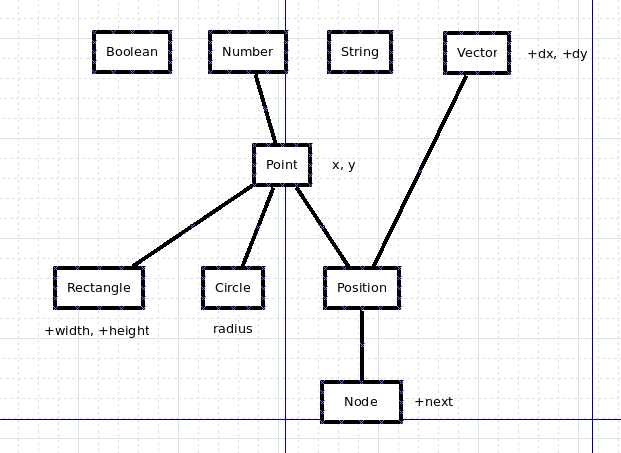
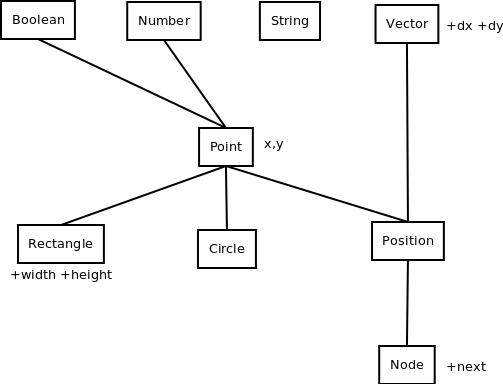
Apró változtatások, képekben, illetve a szövegben is

diff --git a/chapters/engine.tex b/chapters/engine.tex
@@ -30,11 +30,9 @@ Az XML és JSON nyelvek egyaránt alkalmasak a térkép, és a rajta lévő enti
 Az adatbázis motor és a Driver között a kommunikáció (\textit{az adatok tárolási módjához hasonlóan szintén}) JSON alapú. Ez lehetővé teszi, hogy a Driver és az adatbázismotor más nyelven legyen implementálva. Számítógépes játékokat implementálhatnak például C, C++, C\#, Java nyelveken, és ahhoz, hogy mindegyikkel kompatibilis legyen az adatbázismotor, ahhoz rosszabb esetben arra lenne szükség, hogy a motort minden nyelven implementáljuk. Ez nagyon fejlesztést tenne szükségessé, ehelyett csak egy drivert kell implementálni ezen nyelvekhez, amely kommunikál az adatbázis motorral. A projektre nézve a későbbiekben nem csak Java nyelven írt drivert szeretnénk, hanem C++ és C\# is a tervek között van.
 
 \subsection{Lekérdezések kiértékelése}
+A \ref{fig:database}. ábrán szemléltetjük a lekérdezés feldolgozásának és kiértékelésének folyamatát. A kliens a driveren keresztül kiad egy executeQuery(String query) hívást, amelyben a lekérdezés az egy karakterlánc, és ez adódik át a Parser komponensnek. Az adatbázismotor Parser komponense a lekérdezésobjektumokat a builder osztályok metódusaival építi fel. Ezt követően az előállított lekérdezés objektumnak meghívódik az execute metódusa, és ennek eredménye SELECT esetén egy lista ami objektumokat tartalmaz. Ezt a listát a motor átadja a JSON Serializer komponensnek, ami előállítja ebből a listából a JSON-t, amit továbbít a Drivernek, aminek a JSON Deserializer komponense foglya feldolgozni, és előállít belőle egy eredmény listát. A Driver a kliens program számára már értelmezhető formában adja vissza az eredmény listát. Ez a körfolyamat játszódik le minden lekérdezés esetén.
 
-Az adatbázismotor Parser komponense előállítja a lekérdezés objektumot, aminek execute metódusát végrehajtja, és ennek eredménye SELECT esetén egy lista ami objektumokat tartalmaz. Ezt a listát átadjuk a JSON Serializer komponensnek, ami előállítja ebből a listából a JSON-t, amit továbbít a Drivernek, aminek a JSON Deserializer komponense foglya feldolgozni, és előállít belőle egy eredmény listát. A Driver a kliens program számára már értelmezhető formában adja vissza az eredmény listát. Ez a körfolyamat játszódik le minden lekérdezés esetén.
 
-\begin{comment}{Ide majd be kellene hivatkozni egy külön ábrát, vagy jelölni, hogy a komponenses ábrán mi hol zajlik éppen.}
-\end{comment}
 
 \subsection{Az ütközésvizsgálat megvalósítása}
 
@@ -368,7 +366,7 @@ builder.build(); \\
 
 Az Insert lekérdezés fában tárolja az objektumhoz tartozó attribútumokat. A kompozíció miatt, az attribútumok is tartalmazhatnak olyan attribútumokat, amelyek objektumok, így ezek között szülő-gyermek relációt lehet felfedezni, ezért a legegyszerűbb megoldásnak a fában való tárolás tűnt.
 
-A  \ref{fig:insertTreeBuilder}. ábrán látható gráfokkal dolgozik az INSERT lekérdezés objektum. A bal oldali gráf az, amire szüksége van a lekérdezés objektumnak, viszont ezt a parser nem tudja előállítani, hisz az attribútumok és az értékek el vannak különítve egymástól a lekérdezésben. Látható, hogy a két jobboldali gráfból előállítható az, amelyikre az INSERT objektumnak szüksége van, ezt viszont az InsertBuilder osztály a háttérben elvégzi.
+A  \ref{fig:insertTreeBuilder}. ábrán látható gráfokkal dolgozik az INSERT lekérdezés objektum. A jobb oldali gráf az, amire szüksége van a lekérdezés objektumnak, viszont ezt a parser nem tudja előállítani, hisz az attribútumok és az értékek el vannak különítve egymástól a lekérdezésben. Látható, hogy a két baloldali gráfból előállítható az, amelyikre az INSERT objektumnak szüksége van, ezt viszont az InsertBuilder osztály a háttérben elvégzi.
 
 
 
@@ -388,9 +386,9 @@ A parser amikor a builder segítségével felépíti a lekérdezésobjektumot, a
 Az Insert osztályon belül található egy TreeBuilder osztály, amely TreeNode csomópontokat tárol, és építi fel őket.
 Amikor az InsertBuilder metódusai kívülről meghívódnak, ő az Insertből példányosított objektumnak a TreeBuilder metódusait hívja tovább.
 
-Attribútum lista: Ebben a listában tárolom az attribútumokat sorrendben, metaadatként tárolva azt, hogy beszúrást követően a fában a szülő felé kell e lépni, és ha igen, akkor hány szintet.A \ref{fig:insertTreeBuilder}. ábrán látható gráfok közül ez a lista a jobb felső sarokban lévőt tárolja.
+Attribútum lista: Ebben a listában tárolom az attribútumokat sorrendben, metaadatként tárolva azt, hogy beszúrást követően a fában a szülő felé kell-e lépni, és ha igen, akkor hány szintet.A \ref{fig:insertTreeBuilder}. ábrán látható gráfok közül ez a lista a bal felső sarokban lévőt tárolja.
 
-Érték lista: Ebben a listában tárolom a VALUES kulcsszó után feltüntetett értékeket. A \ref{fig:insertTreeBuilder}. ábrán látható gráfok közül ez a lista a jobb alsó sarokban lévőt tárolja.
+Érték lista: Ebben a listában tárolom a VALUES kulcsszó után feltüntetett értékeket. A \ref{fig:insertTreeBuilder}. ábrán látható gráfok közül ez a lista a bal alsó sarokban lévőt tárolja.
 
 Az attribútum és az érték lista is egyaránt ugyan annyi elemet tárol, és ha mindkettőt feltöltötte a parser, akkor az összeillesztésükhöz már csak egy iterációt kell megvalósítani, és a builder tovább tud hívni az INSERT objektum felé úgy, hogy attribútumot, és mellé értéket is párosít.
 

diff --git a/chapters/language.tex b/chapters/language.tex
@@ -20,9 +20,6 @@ A következő szakaszokban az alaptípusok bemutatására kerül sor. A használ
 \end{center}
 \end{figure}
 
-\begin{comment}{A képet majd szépíteni kellene még kicsit. A négyzetrácsnak és a kék pontoknak nem kelllene látszódnia. (DIA-ban van külön export funkció ehhez.)}
-\end{comment}
-
 \subsection{Boolean}
 
 A \textit{Boolean} a nyelvben a logikai adattípus. Értéke \texttt{true} vagy \texttt{false} lehet. Paraméter nélküli létrehozás esetén az alapértelmezett értéke \texttt{false}. Az alábbi példákban az \texttt{azeroth} nevű térképre kerülnek beszúrásra logikai értékek.
@@ -212,10 +209,16 @@ INSERT Rectangle(
 Itt mind a 4 paraméter egy lekérdezés eredménye, azaz mind mutat egy másik objektumra.
 Attól függetlenül, hogy hozzuk létre a téglalapot, ezeket egy pont és egy kiterjedés objektumban fogja tárolni.
 
-\subsection{Circle}
+\subsection{Oval}
 
-\begin{comment}{Még egyeztetés alatt a létjogosultsága.}
-\end{comment}
+Az \textit{Oval} típus ovális alakzatok tárolását teszi lehetővé. 
+
+\begin{sql}
+INSERT Oval(x,y,width,height) INTO azeroth 
+VALUES(10,300,12,32);
+\end{sql}
+
+A fenti lekérdezés eredménye, hogy egy olyan oválist illeszt az "azeroth" nevű térképre, aminek a bal felső befoglaló téglalapjának a sarka a (10,300) pontra esik, a szélessége 12, a magassága 32. 
 
 \subsection{Position}
 

diff --git a/chapters/introduction.tex b/chapters/introduction.tex
@@ -6,6 +6,6 @@ Az ötlet, hogy szükség lenne egy ilyen domain specifikus lekérdezőnyelvre, 
 
 A dolgozatnak nem célja, hogy piacon versenyképes szoftvert mutasson be, sokkal inkább arra helyeznénk a hangsúlyt, hogy alátámasszuk a létjogosultságát.
 
-\begin{comment}
-Le kell majd írni, hogy az elnevezések (pl.: azeroth), és a példák miért ilyenek.
-\end{comment}
+Az általam feltüntetett lekérdezésekben az azeroth elnevezésű térkép a World Of Warcraft online böngészős játékban egy világ, és arról neveztem el. 
+
+A Mine és Stone objektumok a példa lekérdezésekben azért szerepelnek, hogy bemutatásra kerülhessen olyan lekérdezés, amelyben nem csak primitív típusokkal, hanem objektumokkal is dolgozunk.
